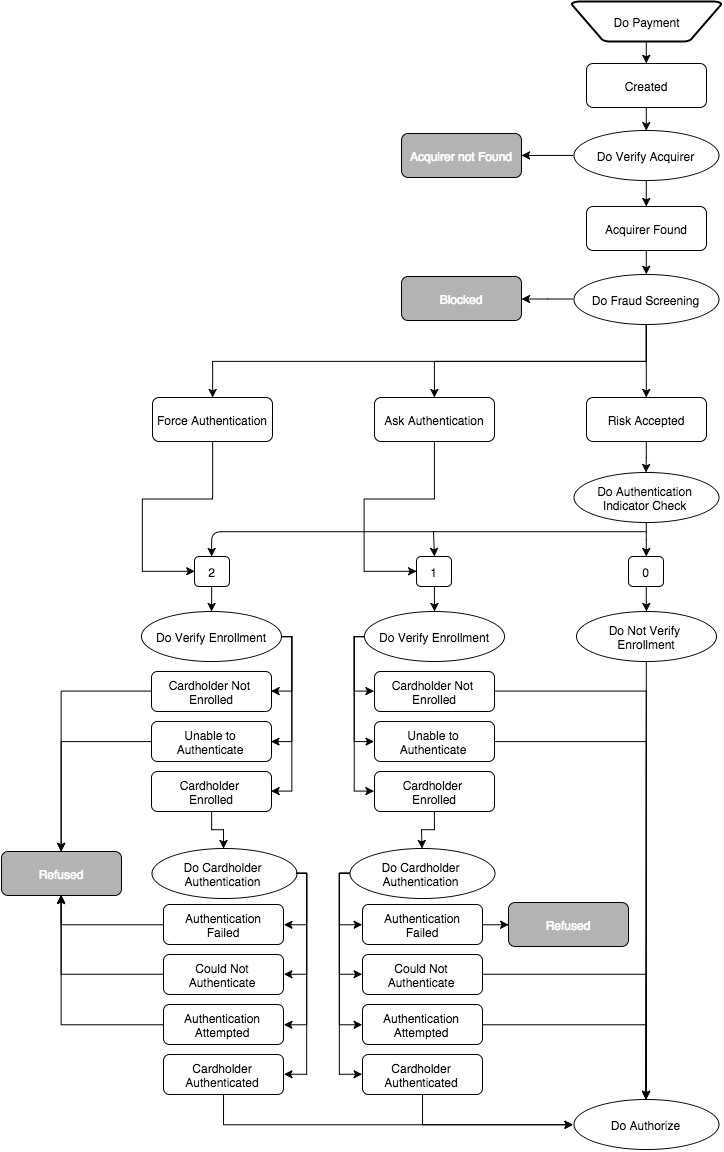
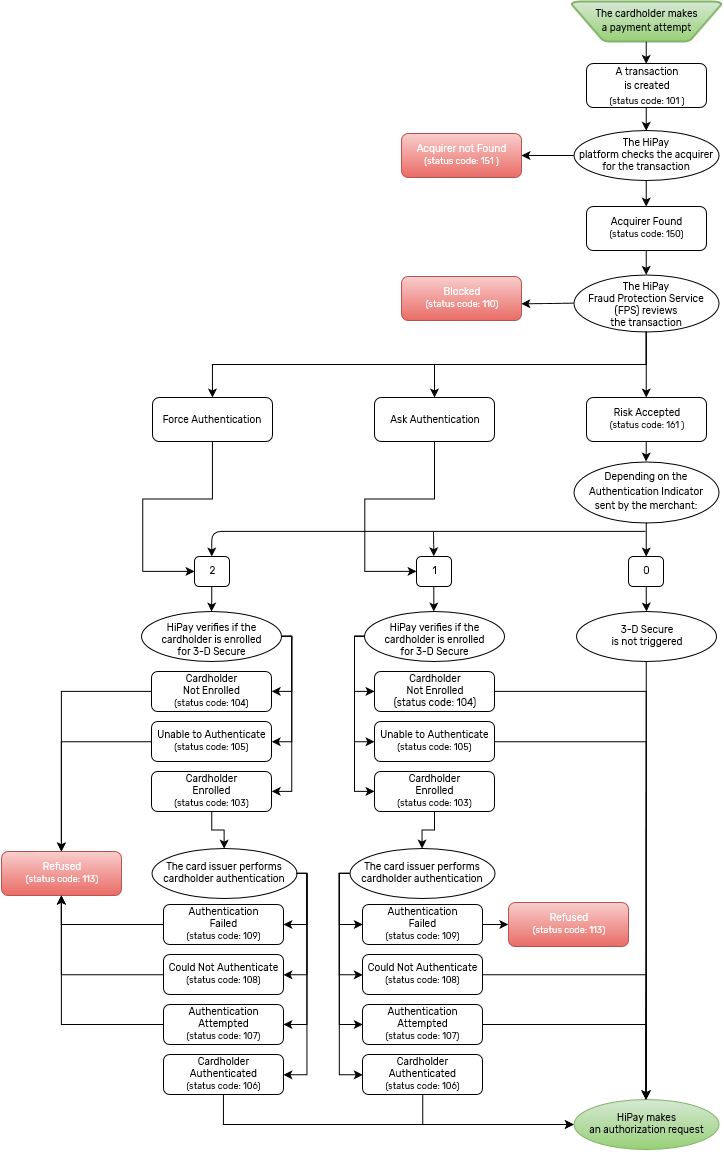
final commit

diff --git a/platform-hipay-fullservice/overview/1-intro.md b/platform-hipay-fullservice/overview/1-intro.md
@@ -5,20 +5,19 @@
 
 ## Purpose
 
-This document is designed to provide you with details on how to integrate your business with the HiPay Enterprise payment gateway. It provides step-by-step instructions on how to simply and quickly get up and running with our services as well as detailed reference material.
+This document is designed to provide you with information to integrate your business with the HiPay Enterprise payment gateway. It gives you step-by-step instructions on how to simply and quickly get up and running with our services as well as detailed reference material.
 
-Where applicable, this document refers to the related documentation with further details.
+Where applicable, this document refers to the related documentation for further details.
 
 ## Intended audience
 
-The intended audience is the merchant's technical staff or the
-merchant's system integrator.
+This document is intended for the merchants' technical staff or system integrator.
 
-Because almost all communications between the merchant's system and the
+Because almost all communications between the merchants' system and the
 REST API are done through predefined XML or JSON messages over the
 Internet using standard protocols, you will need basic XML/JSON
 programming skills and knowledge of HTTP(S). Furthermore, it is
-recommended that you are familiar with the basics of tokenization
+recommended to be familiar with the basics of tokenization
 concepts.
 
 # Acronyms and abbreviations
@@ -31,13 +30,13 @@ The following acronyms and abbreviations are used in this guide.
 | PAN |  Primary Account Number
 | PCI DSS |  Payment Card Industry Data Security Standards
 | REST |  Representational State Transfer
-| SDK |  Software development kit
+| SDK |  Software Development Kit
 
 # Technical integration
 
-In order for you to accept payment through the HiPay Enterprise platform, you need to integrate our APIs. HiPay offers a wide variety of turnkey integrations for industry-standard e-commerce platforms and other SDKs and libraries. **[You can find all the HiPay Enterprise integrations here.](/enterprise)**
+In order for you to accept payment through the HiPay Enterprise platform, you need to integrate our APIs. HiPay offers a wide variety of turnkey integrations for industry-standard e-commerce platforms as well as other SDKs and libraries. **[You can find all the HiPay Enterprise integrations here.](/enterprise)**
 
-You may also integrate our REST API if you have specific technical needs. To this end, please check the next chapter of this guide: *API Overview*.
+You may also integrate our REST API if you have specific technical needs. To this end, please check the next chapter of this guide: *API overview*.
 
 # API overview
 
@@ -90,13 +89,13 @@ For further information on PCI security standards, please visit [www.pcisecurity
 
 **Description**: HiPay Enterprise provides all REST API methods over TLS (Transport Layer Security). Please note that TLS 1.0 will be deprecated and that it is strongly recommended to use TLS 1.1 or 1.2.
 
-**Guarantees**: All data transmitted between HiPay Enterprise and the merchant's system are encrypted (256-bit encryption using a DigiCert certificate).
+**Guarantees**: All data transmitted between HiPay Enterprise and the merchants' system are encrypted (256-bit encryption using a DigiCert certificate).
 
 ## IP restriction
 
 **Description**: When a request is sent to the platform, the IP address or IP address range from where the connection was made is verified.
 
-If it matches with the IP address supplied by the merchant at a previous stage (in the HiPay Enterprise back office: Integration Section), the request will be processed.
+If it matches with the IP address supplied by the merchant at a previous stage (in the HiPay Enterprise back office: Integration section), the request will be processed.
 
 In case of missing or incorrect information, the server will respond with an appropriate error message, indicating the error in the request.
 
@@ -112,45 +111,45 @@ Only authenticated users and system components are allowed to access the Gateway
 
 **Overview**: This chapter describes how to implement 3-D Secure authentication.
 
-**Description**: This process involves redirecting the shopper to an authentication page. This page is provided and hosted by the shopper's card issuer. As this page is hosted by the shopper’s card issuing bank, we have no control over its appearance or functionality.
+**Description**: This process involves redirecting customers to an authentication page. This page is provided and hosted by the customer's card issuer. Therefore, we have no control over its appearance or functionality.
 
 ## About 3-D Secure
 
 **3-D Secure history**: In early 2001, VISA introduced a security protocol called 3-D Secure to improve online transaction performance and to accelerate the growth of electronic commerce through increased consumer confidence. 
 
-**Objective of 3-D Secure**: 3-D Secure aims to provide issuers with the ability to actually authenticate cardholders during online purchases, to reduce the likelihood of fraudulent usage of payment cards and to improve transaction performance to benefit merchants, consumers and acquirers.
+**Objective of 3-D Secure**: 3-D Secure aims to provide issuers with the ability to actually authenticate cardholders during online purchases, to reduce the likelihood of fraudulent usage of payment cards and to improve transaction performance to benefit merchants, customers and acquirers.
 VISA’s branded 3-D Secure program is commonly known as Verified By VISA (VbV). Services based on the protocol have also been adopted by MasterCard, under the name MasterCard SecureCode™ (MSC).
 
 ## Benefits for merchants
 
-**3-D Secure benefits**: The 3-D Secure process provides enhanced security when performing an authenticated transaction as well as a shift of liability in the event of fraudulent transactions. Authentication should strengthen your existing anti-fraud strategy and help protect your business, but bear in mind that coverage of authentication programs is currently limited to Internet transactions. 
+**3-D Secure benefits**: The 3-D Secure process provides enhanced security when performing an authenticated transaction as well as a shift of liability in the event of fraudulent transactions. Authentication should strengthen your existing anti-fraud strategy and help protect your business, but bear in mind that the coverage of authentication programs is currently limited to Internet transactions. 
 
 **Restriction**: This means that authentication programs do not cover fax, mail or phone orders (MO/TO), nor do they cover all card types. The additional security benefits and liability shift of authenticated transactions are currently only supported by Visa and MasterCard.
 
-## Transaction flow
+## 3-D Secure transaction workflow
 
 ### Procedure
 
-Proceed as follows to carry out a transaction:
+Proceed as follows to carry out a transaction.
 
-1. The merchant calls the HiPay Enterprise API with an `authentication_indicator` value of `1` or `2` (or the Fraud Protection Service (FPS) asks for 3-D Secure).
-2. To complete the purchase, the cardholder clicks on the **Pay** button after filling in payment card details on the payment page: this activates the Merchant Plug-In (MPI) and initiates a transaction.    
-3. The MPI identifies the card number and sends it to the Directory Server to determine if the card is in a participating card range.
-4. If the issuer is participating for the card range, the Directory sends a Verify Enrollment Request message to the issuer's *ACS* (Access Control Server) to determine if authentication is available for the account number.
+1. The merchant calls the HiPay Enterprise API with an `authentication_indicator` value of `1` or `2` (or the Fraud Protection Service (*FPS*) asks for 3-D Secure). Please note that in case of an `authentication_indicator` value of `0`, 3-D Secure is not triggered.
+2. To complete the purchase, the cardholder clicks on the **Pay** button after filling in payment card details on the payment page: this activates the Merchant Plug-In (*MPI*) and initiates a transaction.    
+3. The *MPI* identifies the card number and sends it to the Directory Server to determine if the card is in a participating card range.
+4. If the issuer is participating for the card range, the Directory Server sends a Verify Enrollment Request message to the issuer's Access Control Server (*ACS*) to determine if authentication is available for the account number.
 5. The *ACS* returns a Verify Enrollment Response to the Directory Server. 
 	- If authentication is available for this card number, the response then provides the URL of the *ACS* where the cardholder can be authenticated.
 If the payment is on a hosted payment page, the redirection to the *ACS* will be done automatically.
-	- If authentication is not available, the HiPay server then receives a *Cardholder Not Enrolled* or *Authentication Not Available* message and proceeds depending on  the`authentication_indicator` value:
-		- `1`: Proceeds with a standard transaction processing (skip to step 13).
+	- If authentication is not available, the HiPay server then receives a *Cardholder Not Enrolled* or *Unable to Authenticate* message and proceeds depending on  the `authentication_indicator` value:
+		- `1`: Proceeds with standard transaction processing (skip to step 13).
 		- `2`: The transaction is refused.
-6. The Directory Server forwards the *ACS* response to the MPI.
-7. The MPI sends an Authentication Request message to the cardholder’s browser for routing to the *ACS*.
-8. The cardholder’s browser passes the Authentication Request to the *ACS*.
+6. The Directory Server forwards the *ACS* response to the *MPI*.
+7. The *MPI* sends an *Authentication Request* message to the cardholder’s browser for routing to the *ACS*.
+8. The cardholder’s browser passes the *Authentication Request* to the *ACS*.
 9. The *ACS* authenticates the cardholder.
 10. The *ACS* creates, digitally signs and sends an *Authentication Response* to HiPay via the cardholder’s browser. The *ACS* also sends a transaction record to the Authentication History Server for storage.
-11. The browser routes the Authentication Response back to the MPI.
-12. The MPI validates the digital signature in the response, verifying that it is from a valid participating issuer.
-13. HiPay formats and sends to its acquirer an Authorization Request message, which includes information from the issuer’s Authentication Response — including the CVV and the ECI. The acquirer passes the Authorization Request to the card network and the transaction completes through standard processing.
+11. The browser routes the *Authentication Response* back to the *MPI*.
+12. The *MPI* validates the digital signature in the response, verifying that it is from a valid participating issuer.
+13. HiPay formats and sends its acquirer an *Authorization Request* message, which includes information from the issuer’s *Authentication Response* — including the CVV and the ECI. The acquirer passes the *Authorization Request* to the card network and the transaction completes through standard processing.
 14. HiPay sends a notification with the transaction status and 3-D Secure authentication result. *Please refer to the Authentication Results section*.
 
 ### Workflow overview
@@ -159,7 +158,7 @@ If the payment is on a hosted payment page, the redirection to the *ACS* will be
 
 ## Authentication results
 
-The following table lists the enrollment messages and statuses:
+The following table lists the enrollment messages and statuses.
 
 | Status   | Enrollment message | Is 3-D Secure available? | ECI | Description |
 |----------|:-------------:|----------|:-------------:|----------|:-------------:|
@@ -168,21 +167,21 @@ The following table lists the enrollment messages and statuses:
 | `U` | Unable to Authenticate | No | `7` | The card associations were unable to verify if the cardholder is enrolled in the 3-D Secure program. Merchants can choose to accept the card nonetheless and process the purchase as non-authenticated when submitting the authorization. **Chargeback Liability Shift**: The acquirer/merchant retains liability if the cardholder later disputes making the purchase.
 | `E` | Any error message here | No | `7` | An error occurred during the enrollment verification process. **Chargeback Liability Shift**: The card can be accepted for authorization processing, yet the merchant may not claim a liability shift on this transaction in case of a dispute with the cardholder.
 
-The following table lists the authentication messages and statuses:
+The following table lists the authentication messages and statuses.
 
 | Status   | Authentication message | ECI | Description |
 |----------|-------------|----------|-------------|
 | `Y` | Authentication Successful | `5` | The cardholder was successfully authenticated. The issuer has authenticated the cardholder by verifying the identity information or password.
 | `A` | Authentication Attempted | `6` | Authentication could not be performed but a proof of authentication attempt was provided.
 | `U` | Authentication Could Not Be Performed | `7` | The issuer is not able to complete the authentication request due to a technical error or another problem. Possible reasons include: invalid type of card such as a commercial card or any anonymous prepaid card. Unable to establish a TLS session with the cardholder's browser.
-| `N` | Authentication Failed | - | The cardholder did not complete authentication and the card should not be accepted for payment. The following are reasons to fail an authentication: the cardholder fails to correctly enter the authentication information; the cardholder cancels the authentication process. An authentication failure may be a possible indication of a fraudulent user. **The authorization request should not be submitted.**
+| `N` | Authentication Failed | - | The cardholder did not complete authentication and the card should not be accepted for payment. The following are reasons of failing an authentication: the cardholder fails to correctly enter the authentication information; the cardholder cancels the authentication process. An authentication failure may be a possible indication of a fraudulent user. **The authorization request should not be submitted.**
 | `E` | Any error message here | - | An error occurred during the authentication process. **The authorization request should not be submitted.**
 
 # Redirect pages
 
-## Redirect your customer to a page of your choice
+## Redirect your customers to a page of your choice
 
-**Description**: The redirect pages are pages to which HiPay Enterprise redirects your customer's browser after the transaction is processed if it was made outside of your website (hosted payment page, local payments, 3-D Secure authentication, etc.).
+**Description**: The redirect pages are pages to which HiPay Enterprise redirects your customers' browser after the transaction is processed if it was made outside of your website (hosted payment page, local payments, 3-D Secure authentication, etc.).
 
 **Objective**: Typically, this is a secure page on your site. The main purpose is to redirect your customers back to your website once they have completed a payment.
 
@@ -217,7 +216,7 @@ The following table lists and describes the fields sent to your redirect pages.
 | `orderid` | Unique identifier of the order as provided by the merchant 
 | `cid` | Unique identifier of the customer as provided by the merchant
 | `state` | Transaction state. The value must be from the following list: `completed`, `pending`, `declined` or `error`.
-| `status` | Transaction status. A list of available statuses can be found in the appendices.
+| `status` | Transaction status. A list of possible transaction statuses can be found in the Transaction statuses section.
 | `test` | `1` if the transaction is a test transaction; otherwise `0`.
 | `reference` | Unique identifier of the transaction
 | `approval` | Authorization code (up to 35 characters) generated for each approved or pending transaction by the acquiring provider
@@ -230,9 +229,9 @@ The following table lists and describes the fields sent to your redirect pages.
 | `score` | Total score assigned to the transaction (main risk indicator)
 | `fraud` | Overall result of risk assessment returned by the payment gateway. The value must be from the following list: **`pending`** (rules have not been checked), **`accepted`** (the transaction has been accepted), **`blocked`** (the transaction has been rejected due to reviewing system rules), **`challenged`** (the transaction has been flagged for review)
 | `review` | Decision made when the overall risk result returns challenged. An empty value means no review is required. The value must be from the following list: **`pending`** (a decision to release or cancel the transaction is pending), **`allowed`** (the transaction has been released for processing), **`denied`** (the transaction has been cancelled).
-| `avscheck` | Result of the Address Verification Service (AVS). Possible result codes can be found in the appendices.
-| `cvccheck` | Result of the CVC (Card Verification Code) check. Possible result codes can be found in the appendices.
-| `pp` | Payment product used to complete the transaction. Informs about the payment_method section type.
+| `avscheck` | Result of the Address Verification Service (AVS). Possible AVS result codes can be found in the Address Verification Service section.
+| `cvccheck` | Result of the CVC (Card Verification Code) check. Possible CVC result codes can be found in the Card Verification Code section.
+| `pp` | Payment product used to complete the transaction. Informs about the payment_method section type. Possible payment products can be found in the Payment products section.
 | `eci3ds` | 3-D Secure (3DS) electronic commerce indicator
 | `veres` | 3-D Secure (3DS) enrollment status
 | `pares` | 3-D Secure (3DS) authentication status. This field is only included if payment authentication was attempted and a value was received.
@@ -260,15 +259,15 @@ The following table lists and describes the fields sent to your redirect pages.
 |----------|-------------|
 | Notification URL |  The URL or IP address on which you want to receive server-to-server notifications
 | Request method |  The method with which you want to receive requests: XML / HTTP POST 
-| Desired notifications |  Here you can define which notifications you want to receive based on the transaction status. Please refer to "Appendix B. Payment status definitions” for the full list of available transaction statuses.
+| Desired notifications |  Here you can define which notifications you want to receive based on the transaction status. Please refer to the Transaction statuses section for a list of possible statuses.
 
 ## Response fields
 The following table lists and describes the response fields received on the notification call.
 
 | Field name   |      Description    |
 |----------|:-------------:|
-|`state`|Transaction state. The value must be from the following list: <br/>- `completed`<br/>- `pending`<br/>- `declined`<br/>- `error`<br/> For further details, please refer to the following section — Transaction workflow —.
-|`reason` <br/>- `code` <br/>- `message`|Optional element. Reason why the transaction was declined.<br/>- code: Decline reason code <br/>- message: Decline reason description
+|`state`|Transaction state. The value must be from the following list: <br/>- `completed`<br/>- `pending`<br/>- `declined`<br/>- `error`<br/> For further details, please refer to the Transaction workflow section.
+|`reason` <br/>- `code` <br/>- `message`|Optional element. Reason why the transaction was declined.<br/>- code: Decline reason code <br/>- message: Decline reason description Possible decline reasons can be found in the Decline reasons and error codes section.
 |`test`|True if the transaction is a test transaction; otherwise false
 |`mid`|Your merchant account number (issued to you by HiPay Enterprise)
 |`attempt_id`|Attempt ID of the payment
@@ -277,7 +276,7 @@ The following table lists and describes the response fields received on the noti
 |`date_created`|Date when the transaction was created
 |`date_updated`|Date when the transaction was last updated
 |`date_authorized`|Date when the transaction was authorized
-|`status`|Transaction status. A list of available statuses can be found in Appendix B. “Payment status definitions”.
+|`status`|Transaction status. A list of possible statuses can be found in the Transaction statuses section.
 |`message`|Transaction message
 |`authorized_amount`|Transaction amount
 |`captured_amount`|Captured amount
@@ -288,11 +287,11 @@ The following table lists and describes the response fields received on the noti
 |`ip_country`|Country code associated to the customer's IP address
 |`device_id`|Unique identifier assigned to the device (the customer's browser) by HiPay
 |`cdata1` <br/>- `cdata2`<br/>- `...` <br/>- `cdata10`|Custom data
-|`avs_result`|Result of the Address Verification Service (AVS). Possible result codes can be found in the appendices.
-|`cvc_result`|Result of the CVC (Card Verification Code) check. Possible result codes can be found in the appendices.
-|`eci`|Electronic Commerce Indicator (ECI)
-|`payment_product`|Payment product used to complete the transaction. Informs about the payment_method section type.
-|`payment_method`|Please see the tables below for further details.
+|`avs_result`|Result of the Address Verification Service (AVS). Possible AVS result codes can be found in the Address Verification Service section.
+|`cvc_result`|Result of the CVC (Card Verification Code) check. Possible CVC result codes can be found in the Card Verification Code section.
+|`eci`|Electronic Commerce Indicator (ECI) Possible ECIs can be found in the Electronic Commerce Indicator section.
+|`payment_product`|Payment product used to complete the transaction. Informs about the payment_method section type. Possible payment products can be found in the Payment products section.
+|`payment_method`|For further details, please refer to the Response fields specific to the payment product section.
 |`three_d_secure`<br/>- `eci`<br/>- `enrollment_status` <br/>- `enrollment_message` <br/>- `authentication_status`<br/>- `authentication_message`<br/>- `authentication_token`<br/>- `xid`|Optional element. Result of the 3-D Secure Authentication.<br/>- 3-D Secure (3DS) Electronic Commerce Indicator<br/>- Enrollment status<br/>- Enrollment message<br/>- Authentication status<br/>- This field is only included if payment authentication was attempted and a value was received.<br/>- Authentication message. This field is only included if payment authentication was attempted and a value was received.<br/>- This is a value generated by the card issuer as a token to prove that the cardholder was successfully authenticated.<br/>- Unique transaction identifier generated by the payment server on behalf of the merchant to identify the 3-D Secure transaction.
 |`fraud_screening`<br/>- `scoring`<br/>- `result`<br/>- `review`| Fraud screening result<br/>Total score assigned to the transaction (main risk indicator)<br/><br/>Overall result of risk assessment returned by the payment gateway<br/>The value must be from the following list:<br/>- `pending`: rules have not been checked<br/>- `accepted`: the transaction has been accepted<br/>- `blocked`: the transaction has been rejected due to reviewing system rules<br/>- `challenged`: the transaction has been flagged for review.<br/><br/>Decision made when the overall risk result returns challenged.<br/>An empty value means that no review is required.<br/>The value must be from the following list:<br/>- pending: a decision to release or cancel the transaction is pending<br/>- allowed: the transaction has been released for processing<br/>- denied: the transaction has been cancelled.
 |`order`<br/>- `Id`<br/>- `dateCreated` <br/>- `attempts`<br/>- `amount`<br/>- `shipping`<br/>- `tax`<br/>- `decimals`<br/>- `currency`<br/>- `customer_id`<br/>- `language`<br/>- `email`|Information about the customer and their order:<br/>- Unique identifier of the order as provided by the merchant<br/>- Time when the order was created<br/>- Indicates how many payment attempts have been made for this order<br/>- Total order amount (e.g.: 150.00). It should be calculated as the sum of purchased items, plus shipping fees (if present) and tax (if present).<br/>- Order shipping fees<br/>- Order tax amount<br/>- Decimal precision of the order amount<br/>- Base currency for this order. This three-character currency code complies with ISO 4217.<br/>- Unique identifier of the customer as provided by the merchant<br/>- Language code of the customer<br/>- Email address of the customer
@@ -482,9 +481,9 @@ First of all, you need to set a secret passphrase in your HiPay Enterprise back 
 
 ## Verification
 
-**URL notification**: For the URL notification, the signature is sent on the HTTP header under the `HTTP_X_ALLOPASS_SIGNATURE` parameter. To check this point, you just need to concatenate the passphrase with the POST content of the query. Algorithm: SHA signature = SHA1(Raw POST Data + Secret Passphrase)
+**Notification URL**: For the notification URL, the signature is sent on the HTTP header under the `HTTP_X_ALLOPASS_SIGNATURE` parameter. To check this point, you just need to concatenate the passphrase with the POST content of the query. Algorithm: SHA signature = SHA1(Raw POST Data + Secret Passphrase)
 
-**URL redirection**: For each redirection page (accept page, decline page, etc.), the signature is sent under the “hash” parameter. To check this point, you must concatenate the parameters, the values of each of them and the passphrase under the following conditions:
+**Redirection URL**: For each redirection page (accept page, decline page, etc.), the signature is sent under the “hash” parameter. To check this point, you must concatenate the parameters, the values of each of them and the passphrase under the following conditions:
 1. The parameter must be predefined,
 2. The value can’t be empty,
 3. The parameter must be sorted in alphabetical order.
@@ -502,7 +501,7 @@ First of all, you need to set a secret passphrase in your HiPay Enterprise back 
    	$string2compute = '';
    	
    	if (isset($_GET['hash'])) {   		
-   		// If it is a redirection URL
+   		// If it is a redirection
    		$signature = $_GET['hash'];
    		$parameters = $_GET;
    		unset($parameters['hash']);
